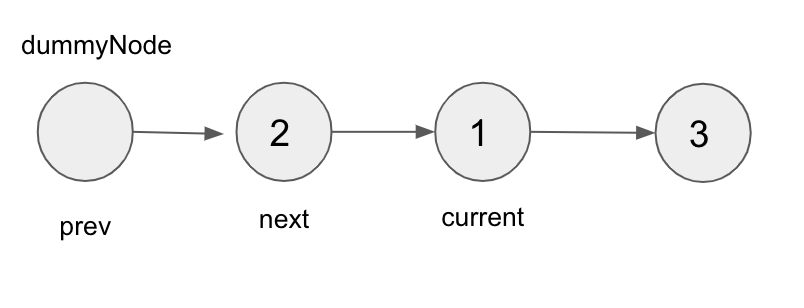
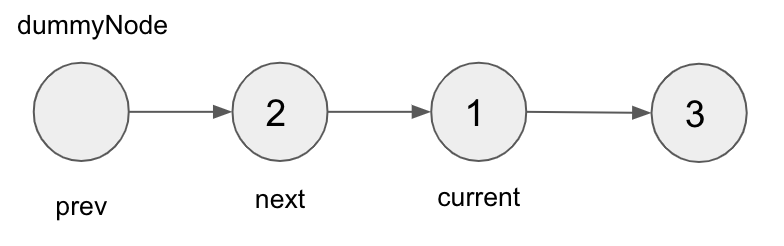
Adding css

diff --git a/src/main/java/com/vc/docs/src/css/index.css b/src/main/java/com/vc/docs/src/css/index.css
@@ -3131,3 +3131,7 @@ th.heading {
 p.paragraph-heading {
 	margin-top:4rem;
 }
+
+.docs img {
+	width: 500px;
+}

diff --git a/src/main/java/com/vc/docs/md/hard/substring-with-concatenation-of-all-words.md b/src/main/java/com/vc/docs/md/hard/substring-with-concatenation-of-all-words.md
@@ -1,0 +1,119 @@
+[comment]: metadata=Java Solution to problem <strong>Merge K Sorted Lists</strong> using <strong>Linked List</strong> Data Structure.
+[comment]: keywords=Merge K Sorted Lists, Priority Queue
+[comment]: robots=index, follow
+
+
+
+
+
+
+<h1>Merge K Sorted Lists</h1>
+<p>
+This page explains Java solution to problem <code class="inline">Merge K Sorted Lists</code> using <a href="https://www.codingcargo.com/what-is-priority-queue" class="absolute" target="_blank" rel="noopener noreferrer">Priority Queue</a>.
+</p>
+
+
+
+
+
+<h2 class="heading">Problem Statement</h2>
+<p>
+You are given an array of k linked-lists lists, each linked-list is sorted in ascending order. Merge all the linked-lists into one sorted linked-list and return it.
+</p>
+
+
+
+
+
+<b>Example 1:</b>
+<blockquote>
+<p>
+<b>Input</b>: lists = [[1,4,5],[1,3,4],[2,6]]<br/>
+<b>Output</b>: [1,1,2,3,4,4,5,6]<br/>
+</p>
+</blockquote>
+
+<b>Example 2:</b>
+<blockquote>
+<p>
+<b>Input</b>: lists = [[]]<br/>
+<b>Output</b>: []<br/>
+</p>
+</blockquote>
+
+
+
+
+
+<h2 class="heading">Solution</h2>
+<p>
+We will be using Priority Queue for solving this problem, so let's start by defining a Priority Queue of ListNode and assigning custom comparator to it. Custom comparator will return ListNode with least value at head position on poll request.
+</p>
+<p>
+Next we will add all the input lists into the Priority Queue.
+</p>
+<pre>
+<code class="language-java">
+PriorityQueue&lt;ListNode&gt; pq = new PriorityQueue&lt;&gt;(new Comparator&lt;&gt;(){
+   public int compare(ListNode l1, ListNode l2) {
+       return Integer.compare(l1.val, l2.val);
+   } 
+});<br />
+//Adding all elements from input lists into the Priority Queue.
+for(ListNode list: lists) if(list != null) pq.offer(list);
+</code>
+</pre>
+
+
+
+
+
+<p class="paragraph-heading">
+Now we will poll the elements from Priority queue and append to a ListNode reference, which will be returned as an answer. And since all the elements in a single ListNode are already sorted it will return the elements in ascending order and we will get final ListNode in a sorted order. 
+</p>
+<pre>
+<code class="language-java">
+final ListNode res = new ListNode(-1);
+ListNode head = res;
+while(!pq.isEmpty()) {
+    ListNode node = pq.poll();
+    head.next = node;
+    head = head.next;
+    if(node.next != null) pq.offer(node.next);
+}
+return res.next;
+</code>
+</pre>
+
+
+
+
+<h2 class="heading">Time Complexity</h2>
+<blockquote>
+<p>
+O(N * log(K)) <br />
+Where N is total number of elements in the final list and K is number of input lists. 
+</p>
+</blockquote>
+
+
+
+
+<h2 class="heading">Space Complexity</h2>
+<blockquote>
+<p>
+O(K)
+Where K is number of input lists.
+</p>
+</blockquote>
+
+
+
+
+<h2 class="heading">Complete Java code</h2>
+If you have any suggestions in below code, please create a pull request <a href="####LINK_PLACEHOLDER####" target="_blank" rel="noopener noreferrer" class="absolute">here</a>
+<pre>
+<code class="language-java">
+####CODE_PLACEHOLDER####
+</code>
+</pre>
